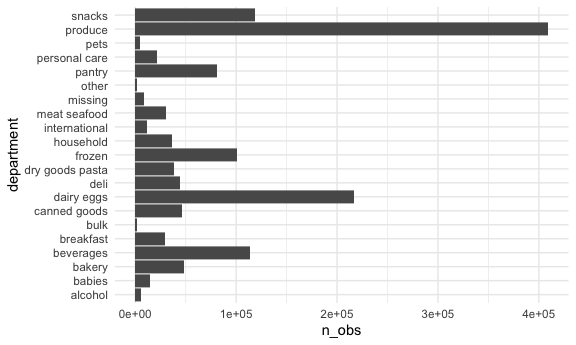
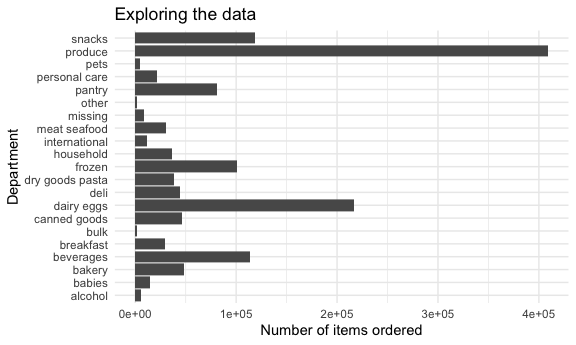
reformatting r markdown and removing warnings and messages

Changed region(s): [[0.0, 0.0, 1.0, 0.8696], [0.4375, 0.9275, 0.75, 0.9855]]

diff --git a/p8105_hw3_raj2152.md b/p8105_hw3_raj2152.md
@@ -21,7 +21,12 @@ eda = instacart %>%
 
 eda %>%   
   ggplot(aes(x = n_obs, y = department)) +
-  geom_bar(stat = "identity")
+  geom_bar(stat = "identity") +
+  labs(
+    title = "Exploring the data", 
+    x = "Number of items ordered",
+    y = "Department"
+    )
 ```
 
 <img src="p8105_hw3_raj2152_files/figure-gfm/unnamed-chunk-3-1.png" width="90%" />
@@ -214,21 +219,21 @@ excell_df =
 
 excell_df %>% 
   ggplot(aes(x = year, y = meandv, group = state, color = state)) +
-  geom_line() +
+  geom_point(alpha = .5) +
+  geom_line(aes(group = state), alpha = .3) +
   scale_color_discrete() +
   labs(
-    title = "Average % ranking of overall health over time within each state",
+    title = "Average data value over time by state",
     x = "Year",
-    y = "Average % ranking of overall health"
+    y = "Average Data Value"
   )
 ```
 
-    ## Warning: Removed 3 row(s) containing missing values (geom_path).
-
 <img src="p8105_hw3_raj2152_files/figure-gfm/unnamed-chunk-11-1.png" width="90%" />
 
-From the plot above, the mean ranking of overall health appears to hover
-around 20-25%.
+From the plot above, the average data values appear to hover around
+20-25. From 2002 to 2010, there appears to be a general decrease in
+average data values over time.
 
 ### Distribution of data\_value for Poor to Excellent in NY State
 
@@ -239,11 +244,11 @@ locations in NY State.*
 ``` r
 brfss_df %>% 
   filter(year %in% c(2006, 2010), state == "NY") %>% 
-  ggplot(aes(x = response, y = data_value)) +
+  ggplot(aes(x = response, y = data_value, color = response)) +
   geom_boxplot() +
   facet_grid(. ~ year) +
   labs(
-    title = " Distribution of Responses in NY State, 2006 and 2010",
+    title = " Distribution of data value responses in NY State, 2006 and 2010",
     x = "Response",
     y = "Data Value"
   )
@@ -251,8 +256,8 @@ brfss_df %>%
 
 <img src="p8105_hw3_raj2152_files/figure-gfm/unnamed-chunk-12-1.png" width="90%" />
 
-The median values and interquartile range of self-reported overall
-health in each response group appear to be similar across both years.
+The median values and interquartile range of the data values in each
+response group appear to be similar across both years.
 
 ## Problem 3
 
@@ -275,17 +280,6 @@ accel_df =
     minute_of_day = as.numeric(minute_of_day)
   )
 ```
-
-    ## Rows: 35 Columns: 1443
-
-    ## ── Column specification ────────────────────────────────────────────────────────
-    ## Delimiter: ","
-    ## chr    (1): day
-    ## dbl (1442): week, day_id, activity.1, activity.2, activity.3, activity.4, ac...
-
-    ## 
-    ## ℹ Use `spec()` to retrieve the full column specification for this data.
-    ## ℹ Specify the column types or set `show_col_types = FALSE` to quiet this message.
 
 There are 6 variables in the `accel_df` dataframe including: activity,
 day, day\_id, day\_type, minute\_of\_day, week. Each row of the dataset
@@ -363,8 +357,8 @@ in words any patterns or conclusions you can make based on this graph.*
 ``` r
 accel_df %>% 
   ggplot(aes(x = minute_of_day, y = activity, color = day)) +
-  geom_point(alpha = .7) + 
-  geom_smooth() + 
+  geom_point(alpha = .4) + 
+  geom_smooth(aes(group = day)) + 
   labs(
     title = "24-hour Activity for Each Day of Week", 
     x = "Minute of the 24-hour day",
@@ -372,11 +366,12 @@ accel_df %>%
   )
 ```
 
-    ## `geom_smooth()` using method = 'gam' and formula 'y ~ s(x, bs = "cs")'
-
 <img src="p8105_hw3_raj2152_files/figure-gfm/unnamed-chunk-15-1.png" width="90%" />
 
-From the plot, we can see that activity begins around minute 250 of the
-day (approx 4 am) and peaks and decreases around minute 1250 of the day
-(approx 8pm). The times of the day with the most activity are around
-minute 750 (approx 12:30pm) and between minute 1000-1250 (approx 4-8pm).
+From the plot, we can see that activity for this 63 year old male begins
+a little after minute 250 of the day (approx 4-5 am) and peaks and
+decreases around minute 1250 of the day (approx 8pm). The times of the
+day with the most activity are around minute 750 (approx 12:30pm) and
+between minute 1000-1250 (approx 4-8pm). Additionally, activity starts
+later in the morning on Sunday and there is more activity at night on
+Friday.
